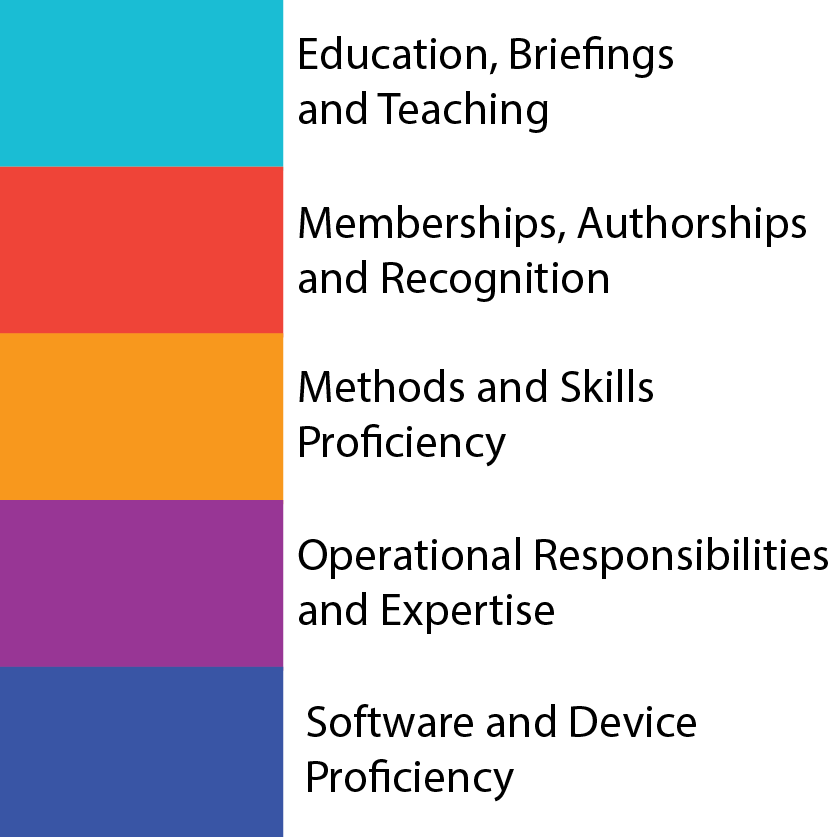
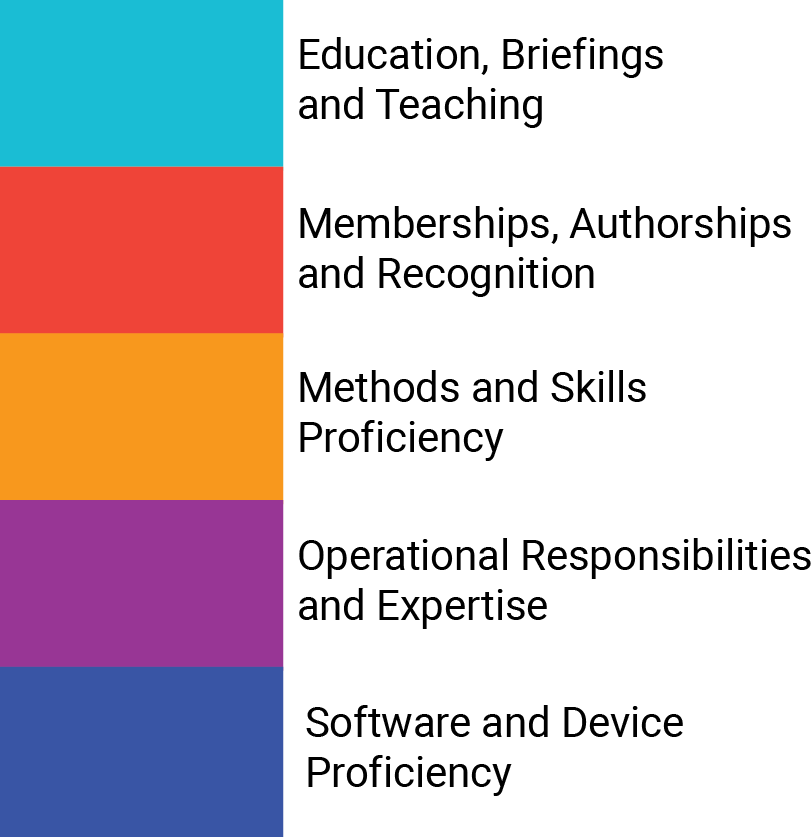
Modified bottom legend font and size, removed padding from top of top legend

Changed region(s): [[0.3387, 0.0, 1.0, 1.0]]

diff --git a/src/assets/css/dashboard.css b/src/assets/css/dashboard.css
@@ -140,8 +140,8 @@ color: black !important;
   }
 
   #topLegend{
-    padding-top: 20px;
-  }
+/*    padding-top: 20px;
+*/  }
 
 .tBackground{
 /*background-color: #8FCBD8 !important;
